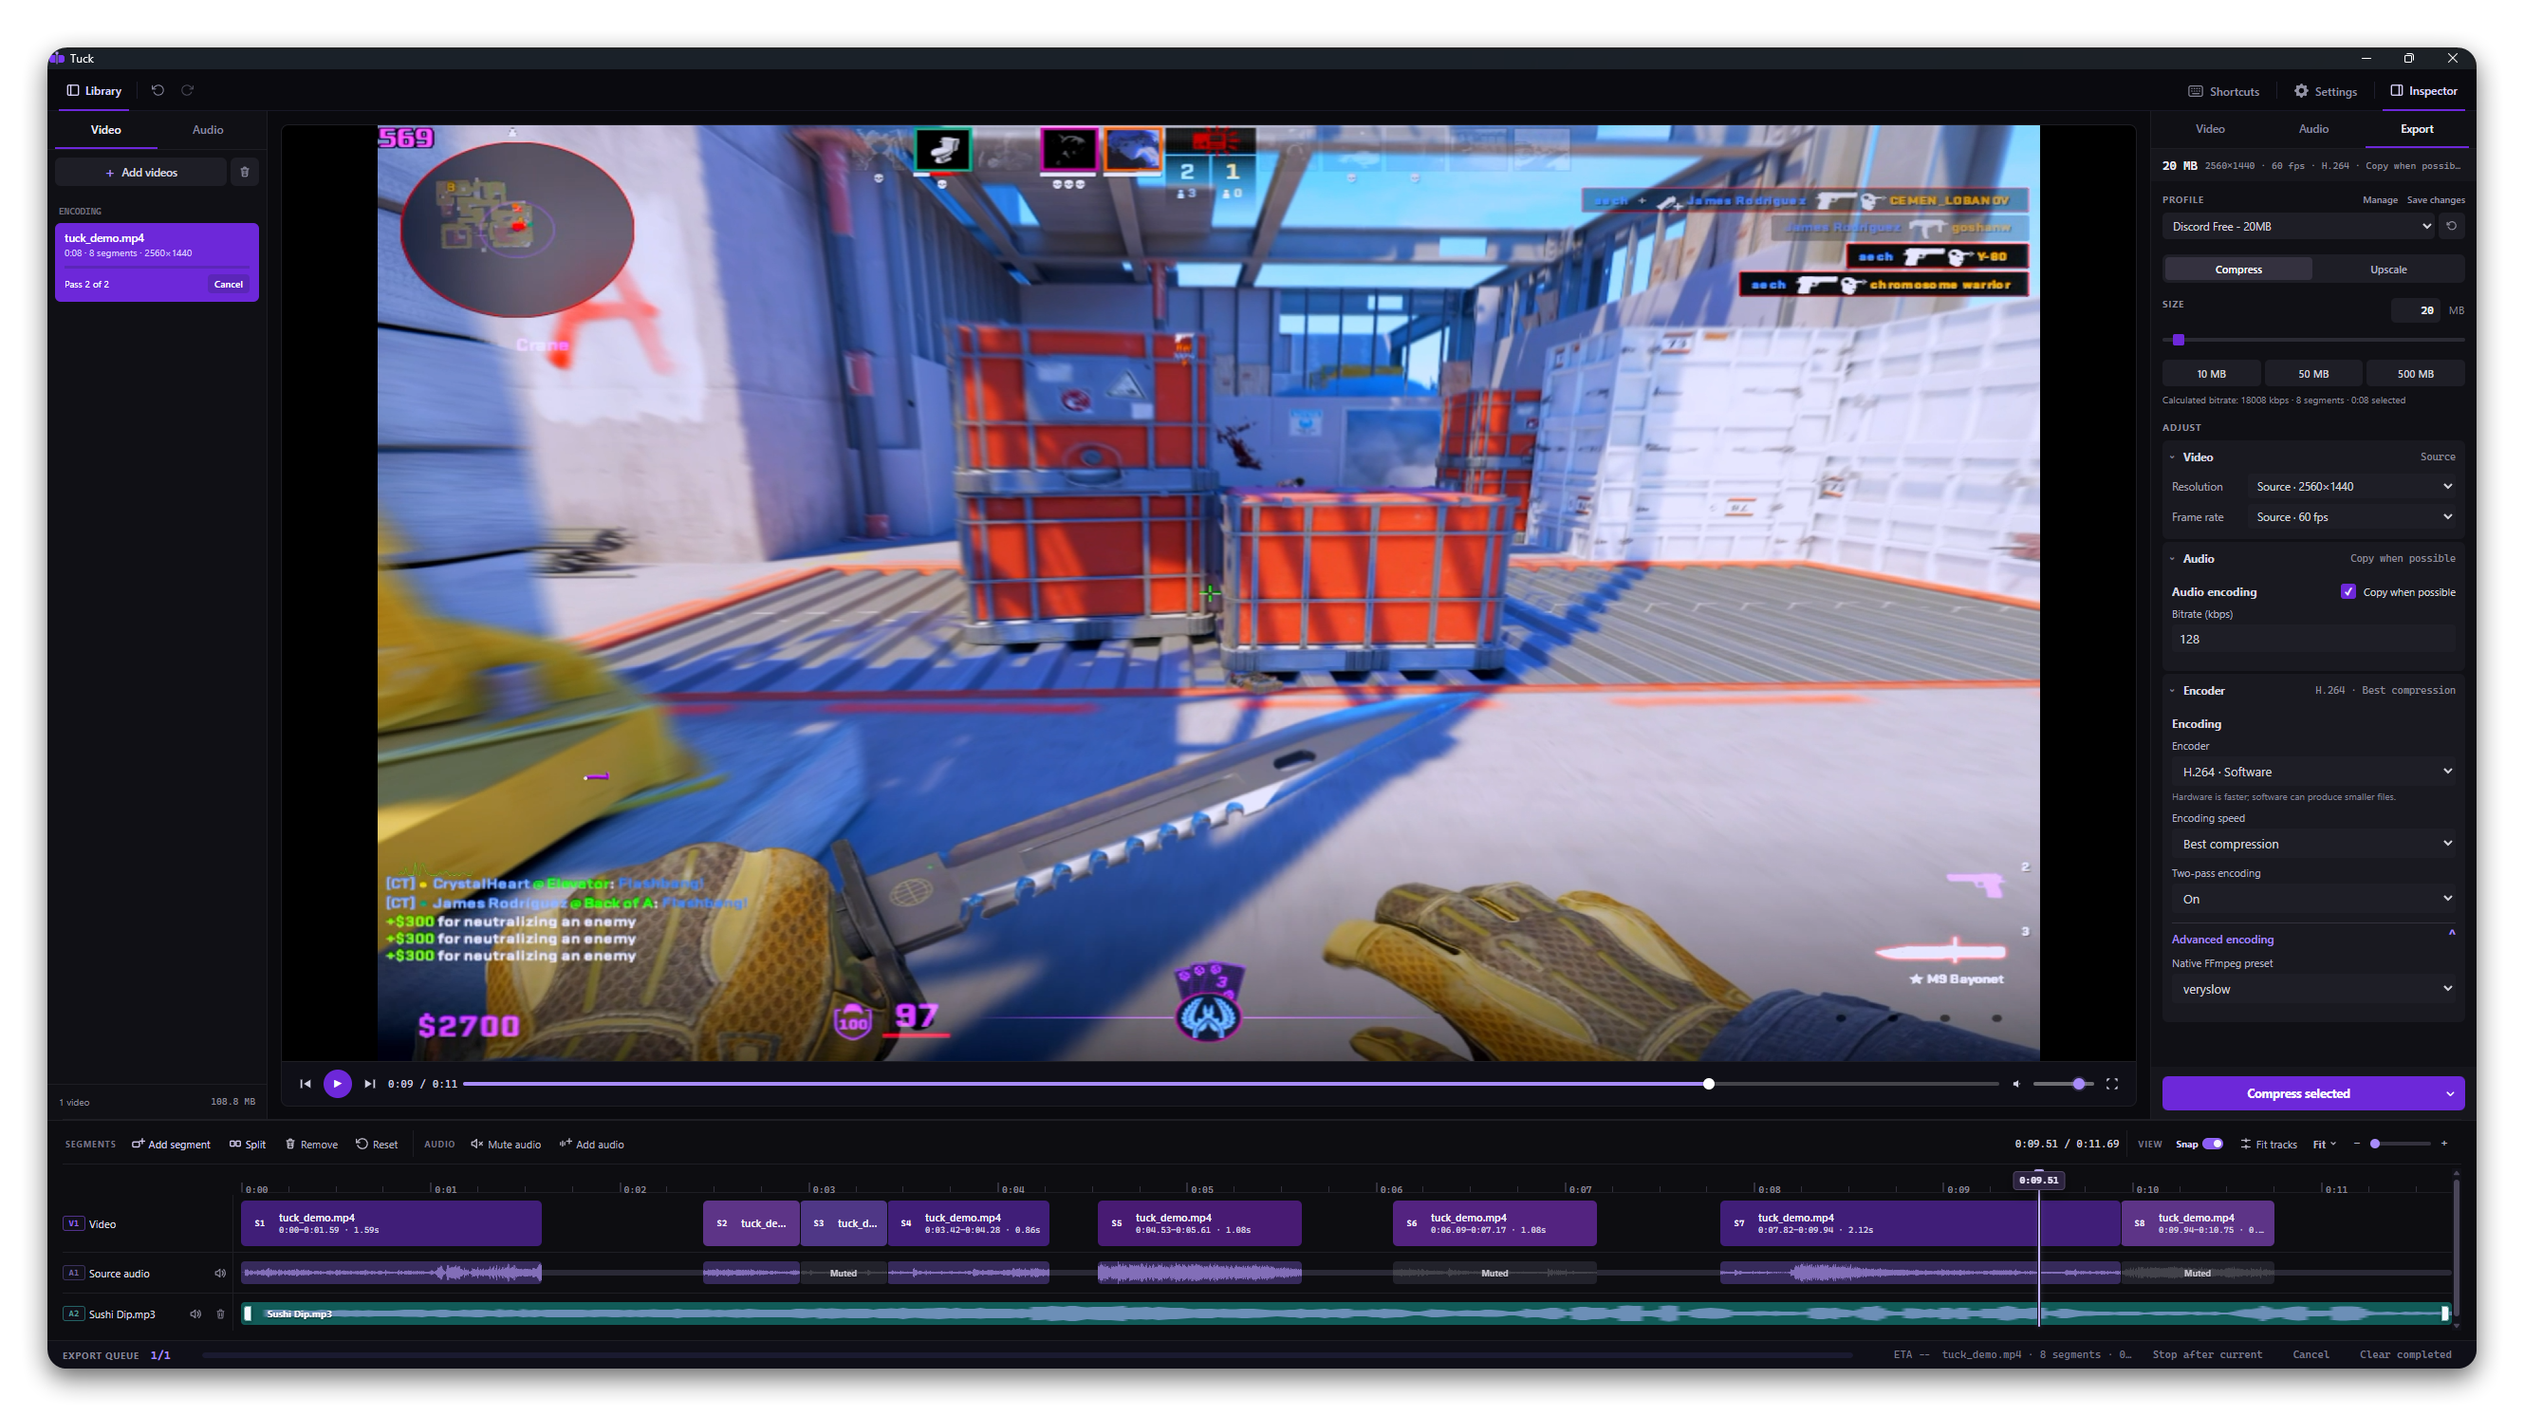
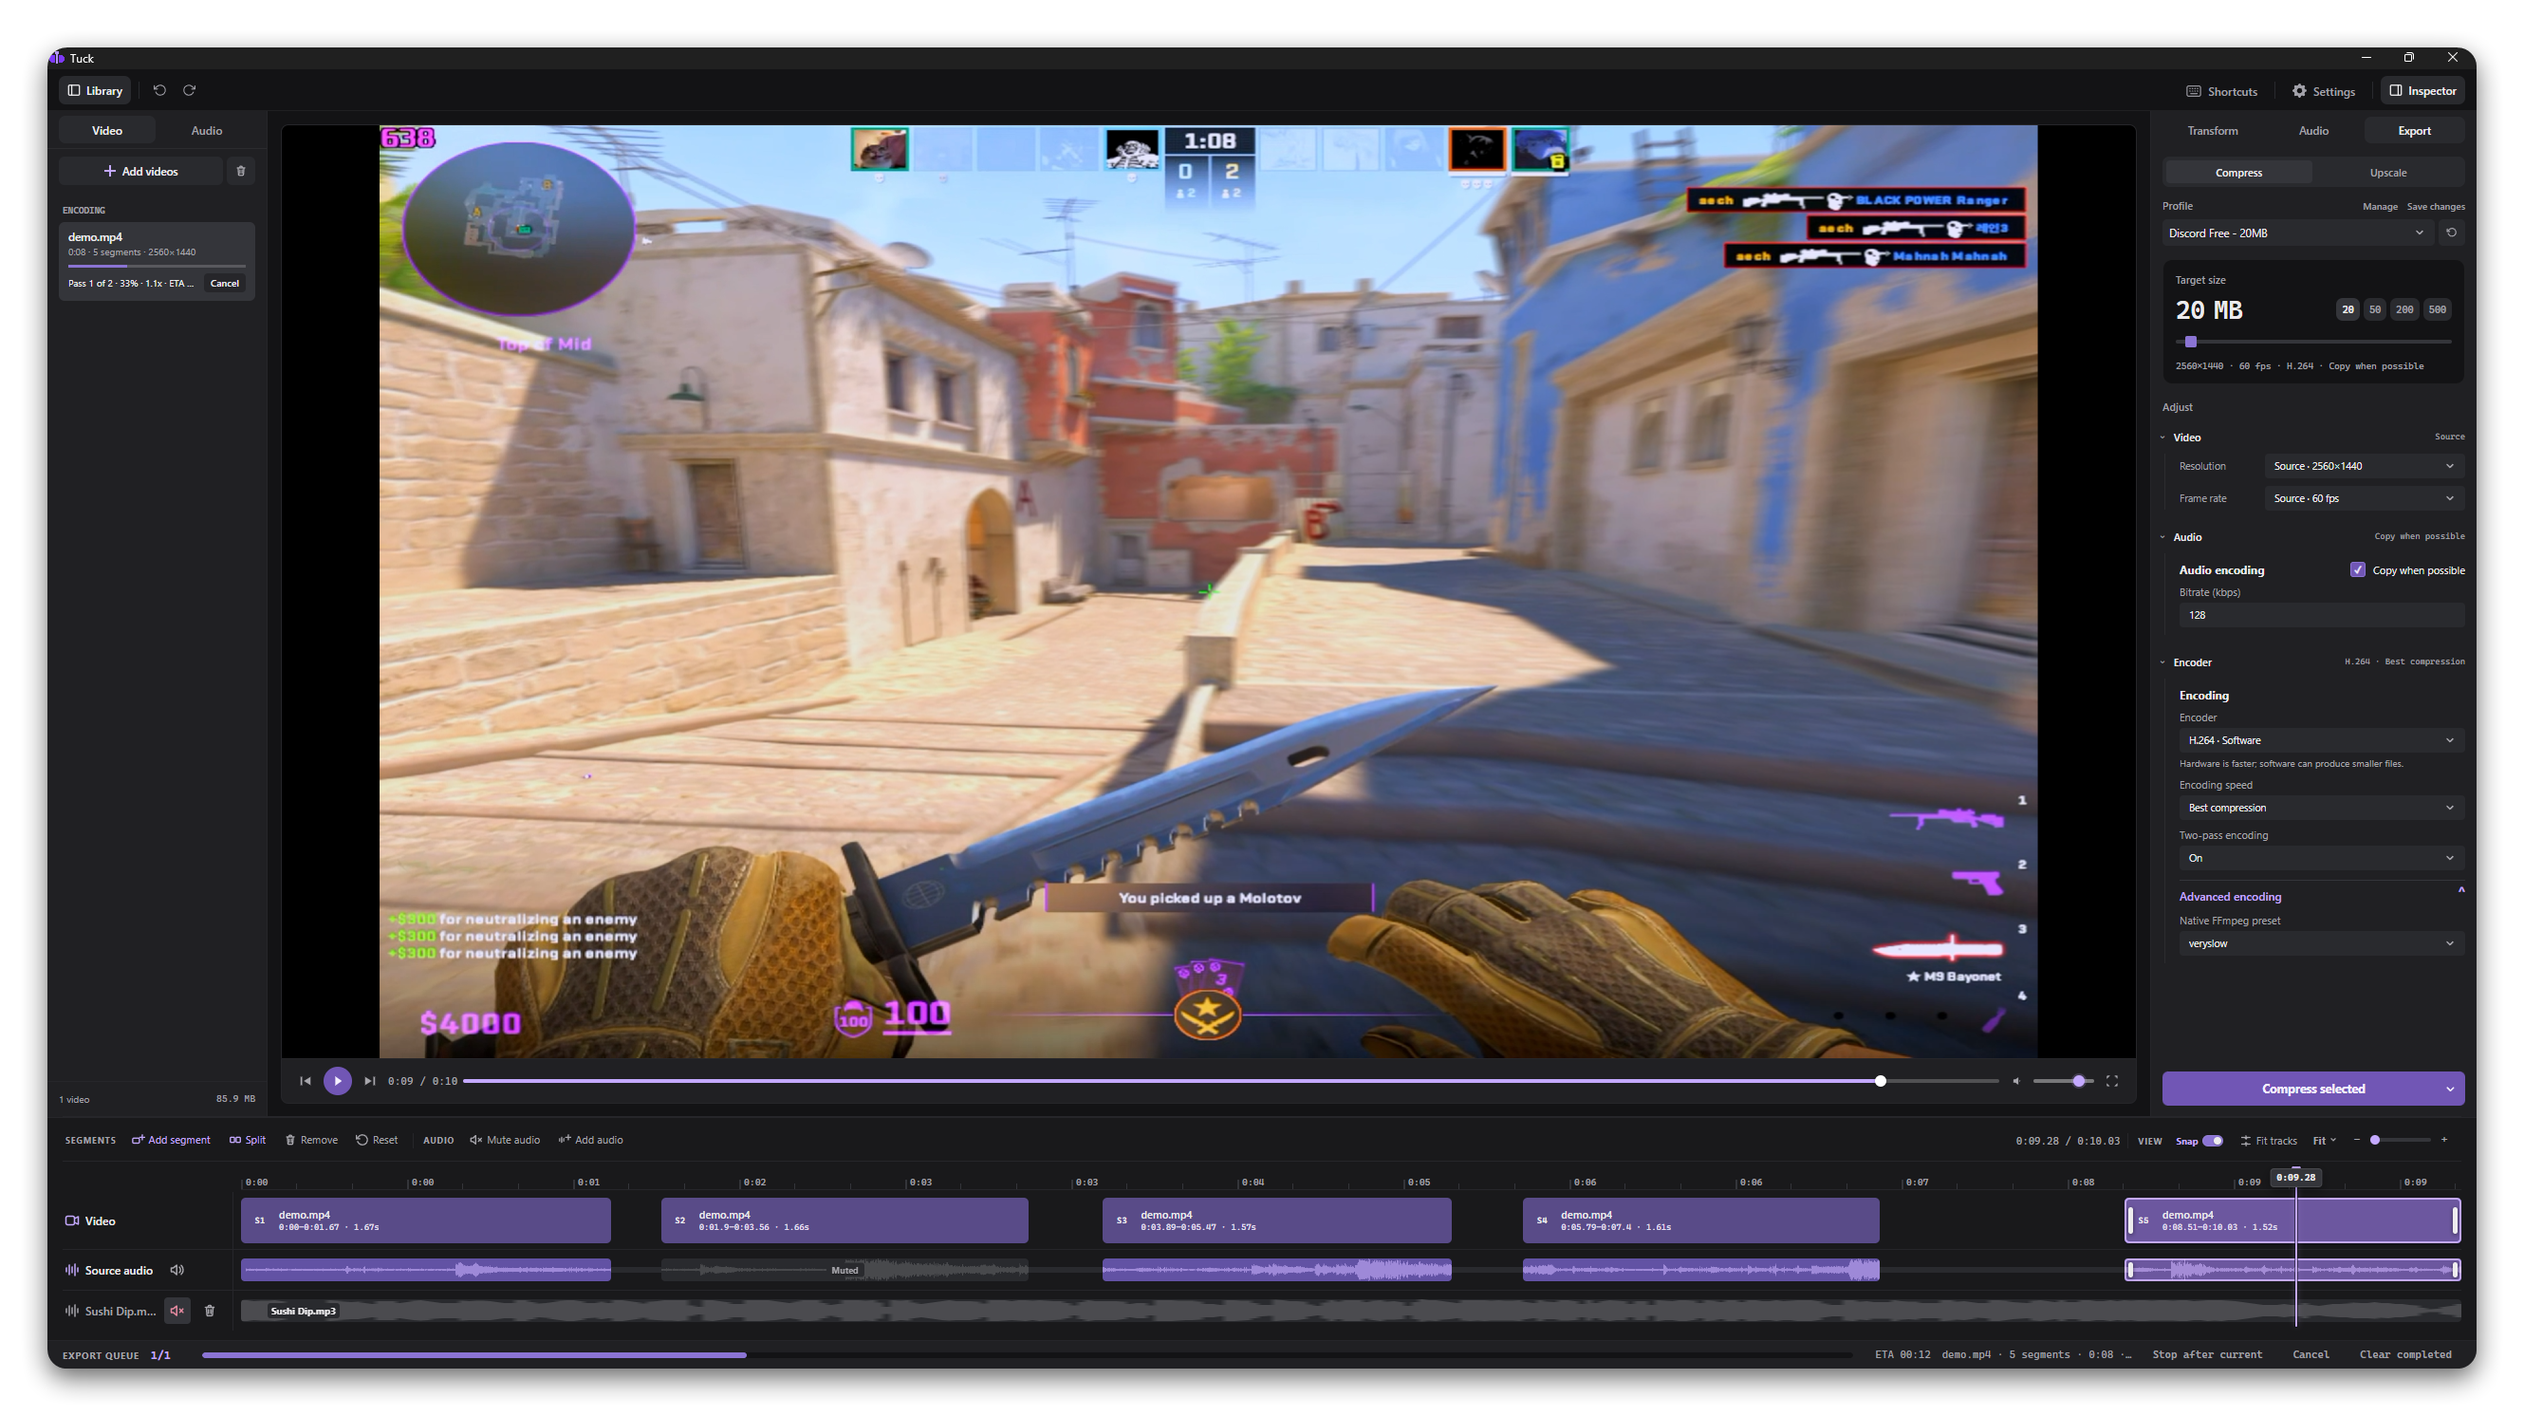
Release 0.5.0

diff --git a/src-tauri/tests/backend_process.rs b/src-tauri/tests/backend_process.rs
@@ -94,7 +94,7 @@ async fn pending_requests_route_out_of_order_responses_once() {
 #[tokio::test]
 async fn process_reports_malformed_output_and_does_not_leave_a_pending_request() {
     let process = BackendProcess::launch(fake_sidecar(
-        "import json, sys\nprint(json.dumps({'kind':'event','protocol':1,'event':'backend_ready','payload':{'backend_version':'0.4.0','pid':1,'capabilities':{'protocol':1}}}), flush=True)\nprint('{not json}', flush=True)\nfor _ in sys.stdin: pass",
+        "import json, sys\nprint(json.dumps({'kind':'event','protocol':1,'event':'backend_ready','payload':{'backend_version':'0.5.0','pid':1,'capabilities':{'protocol':1}}}), flush=True)\nprint('{not json}', flush=True)\nfor _ in sys.stdin: pass",
     ))
     .await
     .expect("sidecar should report readiness before malformed output");
@@ -115,7 +115,7 @@ async fn process_reports_malformed_output_and_does_not_leave_a_pending_request()
 #[tokio::test]
 async fn process_returns_stderr_diagnostics_after_early_exit() {
     let process = BackendProcess::launch(fake_sidecar(
-        "import json, sys\nprint(json.dumps({'kind':'event','protocol':1,'event':'backend_ready','payload':{'backend_version':'0.4.0','pid':1,'capabilities':{'protocol':1}}}), flush=True)\nprint('sidecar startup diagnostic', file=sys.stderr, flush=True)",
+        "import json, sys\nprint(json.dumps({'kind':'event','protocol':1,'event':'backend_ready','payload':{'backend_version':'0.5.0','pid':1,'capabilities':{'protocol':1}}}), flush=True)\nprint('sidecar startup diagnostic', file=sys.stderr, flush=True)",
     ))
     .await
     .expect("sidecar should report readiness before it exits");
@@ -140,7 +140,7 @@ async fn process_returns_stderr_diagnostics_after_early_exit() {
 #[tokio::test]
 async fn request_timeout_removes_the_pending_entry() {
     let process = BackendProcess::launch(fake_sidecar(
-        "import json, sys\nprint(json.dumps({'kind':'event','protocol':1,'event':'backend_ready','payload':{'backend_version':'0.4.0','pid':1,'capabilities':{'protocol':1}}}), flush=True)\nfor _ in sys.stdin: pass",
+        "import json, sys\nprint(json.dumps({'kind':'event','protocol':1,'event':'backend_ready','payload':{'backend_version':'0.5.0','pid':1,'capabilities':{'protocol':1}}}), flush=True)\nfor _ in sys.stdin: pass",
     ))
     .await
     .expect("sidecar should start");
@@ -181,7 +181,7 @@ async fn real_sidecar_completes_health_and_graceful_shutdown() {
 #[tokio::test]
 async fn sidecar_receives_the_authoritative_desktop_platform() {
     let process = BackendProcess::launch(fake_sidecar(
-        "import json, os, sys\nprint(json.dumps({'kind':'event','protocol':1,'event':'backend_ready','payload':{'backend_version':'0.4.0'}}), flush=True)\nfor line in sys.stdin:\n request = json.loads(line)\n print(json.dumps({'kind':'response','protocol':1,'id':request['id'],'ok':True,'result':{'platform': os.environ['TUCK_DESKTOP_PLATFORM']}}), flush=True)",
+        "import json, os, sys\nprint(json.dumps({'kind':'event','protocol':1,'event':'backend_ready','payload':{'backend_version':'0.5.0'}}), flush=True)\nfor line in sys.stdin:\n request = json.loads(line)\n print(json.dumps({'kind':'response','protocol':1,'id':request['id'],'ok':True,'result':{'platform': os.environ['TUCK_DESKTOP_PLATFORM']}}), flush=True)",
     ))
     .await
     .expect("sidecar should start");

diff --git a/scripts/verify_package.py b/scripts/verify_package.py
@@ -51,7 +51,7 @@ STAGING_APP = ROOT / "packaging" / "staging" / "app"
 MANIFEST = ROOT / "packaging" / "staging" / "manifest.json"
 LOCK = ROOT / "packaging" / "ffmpeg-sources.lock.json"
 WEBVIEW2_LOCK = ROOT / "packaging" / "webview2-bootstrapper.lock.json"
-EXPECTED_VERSION = "0.4.0"
+EXPECTED_VERSION = "0.5.0"
 
 
 class VerifyError(RuntimeError):

diff --git a/tuck/__init__.py b/tuck/__init__.py
@@ -1,1 +1,1 @@
-__version__ = "0.4.0"
+__version__ = "0.5.0"

diff --git a/README.md b/README.md
@@ -21,43 +21,33 @@
 
 ---
 
-> [!NOTE]
-> **Microsoft Defender false positive resolved**
->
-> Microsoft reviewed Tuck 0.3.2 and the 0.3.3 release candidate and removed the false-positive cloud detection. Both files are classified as not malware.
->
-> If Defender still reports an older detection, open Windows Security, go to **Virus & threat protection > Protection updates**, and select **Check for updates**.
-
-Tuck is a desktop video editor, compressor, and upscaler built around FFmpeg.
-Trim clips, edit audio, crop or resize videos, and export to a chosen file size
-or resolution.
+Tuck is a simple video editor for Windows and Linux, built around FFmpeg.
+Trim clips, edit audio, crop or resize videos, and export to a file size or
+resolution you choose.
 
 <img src="docs/screenshots/Tuck_GUI.png" alt="Tuck editor">
 
 ## Download
 
-Tuck supports Windows 10 and 11 and x86-64 Linux through an AppImage. The AppImage bundles its Python backend and FFmpeg tools. It is GUI-only: Send To integration, a public command line, and hardware encoding are Windows-only. Both platforms install signed updates from inside the app.
+Tuck supports Windows 10 and 11 and x86-64 Linux. Both packages include FFmpeg and
+ffprobe and support signed updates from inside the app.
 
-1. Download the latest installer from the [Releases page](https://github.com/aechXIII/Tuck/releases/latest), then run it.
+Linux uses software encoding. Hardware encoding, File Explorer's **Send To** menu,
+and the command-line tools are available on Windows only.
 
-2. Install FFmpeg and FFprobe:
+### Windows
 
-   ```powershell
-   winget install --exact --id Gyan.FFmpeg
-   ```
+Download the Windows installer from the [Releases page](https://github.com/aechXIII/Tuck/releases/latest), run it, and open Tuck. FFmpeg and ffprobe are included; no separate installation is needed. Setup installs the WebView2 Runtime if it is missing, which requires an internet connection.
 
-3. Restart Tuck.
-
-If `winget` is unavailable, install a Windows build from the [FFmpeg download page](https://ffmpeg.org/download.html). Make `ffmpeg.exe` and `ffprobe.exe` available in `PATH` or select them under
-**Settings > System & support > Advanced system settings**.
+To use your own FFmpeg tools, select them in **Settings > System & support**.
 
 ### Linux AppImage
 
-Install for the current user (no root) with the one-liner, which also adds a
-desktop entry and can be re-run to update:
+Install Tuck and add it to the application menu with this command. It requires
+`curl`, `python3`, and `sha256sum`. No `sudo` needed. Run it again to update:
 
 ```bash
-curl -fsSL https://raw.githubusercontent.com/aechXIii/Tuck/main/scripts/install-linux.sh | sh
+curl -fsSL https://raw.githubusercontent.com/aechXIII/Tuck/main/scripts/install-linux.sh | sh
 ```
 
 Or run the x86-64 AppImage directly after making it executable:
@@ -70,23 +60,17 @@ chmod +x Tuck-*-x86_64.AppImage
 When the AppImage file is writable the app updates in place. When it is not, it
 shows the release notes with a download link.
 
-The AppImage needs a desktop session with WebKitGTK 4.1. It bundles its own Python
-sidecar, FFmpeg/ffprobe, and the GStreamer plugins used for editor preview
-playback.
+The AppImage needs a Linux desktop session. It includes WebKitGTK, Python,
+FFmpeg/ffprobe, and the plugins used for video previews.
 
-- On distributions without `libfuse2` (Ubuntu 24.04 and newer, recent Fedora), run
-  it with `./Tuck_*.AppImage --appimage-extract-and-run` or install `libfuse2`.
-- Tuck forces WebKitGTK's portable renderer so it starts inside virtual machines
-  and on software OpenGL. Launch with `TUCK_WEBKIT_ACCELERATED=1 ./Tuck_*.AppImage`
-  for the full accelerated renderer, or `TUCK_WEBKIT_COMPOSITING=1 ./Tuck_*.AppImage`
-  to keep accelerated compositing (needed for `<video>` on some drivers) while
-  still avoiding the virtual-machine renderer crash.
-
-Build the AppImage natively on Ubuntu 22.04 with a desktop session available for the
-smoke test. It uses the bundled Python sidecar and FFmpeg/ffprobe, not system Python
-or FFmpeg. The build compiles FFmpeg from locked FFmpeg, x264, and x265 sources. The
-AppImage includes those exact source archives and the build recipe under
-`ffmpeg/source`.
+- If the AppImage reports that FUSE is missing, run
+  it with `./Tuck-*-x86_64.AppImage --appimage-extract-and-run` (or
+  `tuck --appimage-extract-and-run` after using the installer script).
+- If video previews stay blank, try launching with
+  `TUCK_WEBKIT_COMPOSITING=1 ./Tuck-*-x86_64.AppImage`.
+- Hardware-accelerated display is off by default for compatibility with virtual
+  machines. To enable it, launch with
+  `TUCK_WEBKIT_ACCELERATED=1 ./Tuck-*-x86_64.AppImage`.
 
 ## Features
 
@@ -95,8 +79,8 @@ AppImage includes those exact source archives and the build recipe under
 - **Crop and resize:** Crop directly in the preview, rotate in 90-degree steps, flip the
   picture horizontally or vertically, and choose **Fit**, **Fill**, or **Stretch** for the
   output frame.
-- **Compression and upscaling:** Compress to a chosen file-size limit, or upscale to 1440p, 4K, or a custom resolution. Built-in profiles cover [Discord's](https://support.discord.com/hc/en-us/articles/25444343291031-File-Attachments-FAQ) 20 MB, 50 MB, and 500 MB upload limits.
-- **Encoding queue:** Encode with FFmpeg using software or supported NVIDIA and AMD hardware. Queue multiple videos, reorder pending exports, cancel a pending or running export, and retry failed or cancelled exports.
+- **Compression and upscaling:** Compress to a chosen file-size limit, or upscale to 1440p, 4K, or a custom resolution. Choose a target-size preset of 20, 50, 200, or 500 MB, or enter your own limit.
+- **Encoding queue:** Queue multiple videos, reorder pending exports, cancel a pending or running export, and retry failed or cancelled exports. Use software encoding on either platform or supported NVIDIA and AMD hardware on Windows.
 - **Profiles and Windows integration:** Save reusable profiles, import or export profiles, drag videos into Tuck, and add Tuck or a specific profile to File Explorer's **Send To** menu.
 
 ## Use
@@ -105,7 +89,7 @@ AppImage includes those exact source archives and the build recipe under
 2. Make any timeline, audio, crop, or sizing changes.
 3. Choose **Compress** or **Upscale**, select a profile, and start the export.
 
-## Command line
+## Command line (Windows)
 
 The installer adds `tuck` to `PATH`. Open a new terminal after installing Tuck.
 
@@ -127,7 +111,13 @@ include the report in a [GitHub issue](https://github.com/aechXIII/Tuck/issues).
 
 ## Build from source
 
-Running Tuck from source needs Windows or Linux, Python 3.10 or newer, Node.js, Rust, and FFmpeg:
+Development needs Python 3.10 or newer, Node.js 20.19+ on the 20.x line or 22.12
+and newer, Rust, and FFmpeg/ffprobe. Windows also needs the MSVC build tools and
+WebView2; Linux needs the Tauri/WebKitGTK 4.1 development dependencies.
+
+### Windows
+
+Set up Python, install frontend dependencies, and start the editor:
 
 ```powershell
 .\scripts\setup.ps1
@@ -139,14 +129,32 @@ First [build the Windows media tools](packaging/windows-ffmpeg.md) from pinned
 sources using Ubuntu 22.04 or WSL. Then build the Windows installer:
 
 ```powershell
-.\scripts\build.ps1 -Clean
+.\scripts\build.ps1
 ```
 
-Build the x86-64 Linux AppImage natively on Ubuntu 22.04 with Python, Node.js, Rust, Tauri's Linux build dependencies, CMake, NASM, pkg-config, and a C/C++ compiler installed:
+### Linux
+
+Set up Python and frontend dependencies, then start the editor:
 
 ```bash
-./scripts/build-linux.sh --clean
+python3 -m venv .venv
+.venv/bin/python -m pip install -e '.[dev]'
+npm ci
+npm run tauri dev
 ```
+
+Build the x86-64 AppImage on Ubuntu 22.04. In addition to the development
+dependencies, install CMake, NASM, pkg-config, a C/C++ compiler, Xvfb, squashfs-tools,
+and the GStreamer tools and base/good/bad/libav plugins. The build script checks
+for required tools and runs the packaged smoke test.
+
+```bash
+./scripts/build-linux.sh
+```
+
+The Linux build compiles FFmpeg, x264, and x265 from pinned sources and includes
+the source archives and build recipe in the AppImage under `ffmpeg/source`.
+Windows releases provide a separate FFmpeg source archive alongside the installer.
 
 ## License
 

diff --git a/CHANGELOG.md b/CHANGELOG.md
@@ -1,5 +1,27 @@
 # Changelog
 
+## [0.5.0] - 2026-09-14
+
+### Added
+
+- Linux support (AppImage)
+- Linux installer script
+
+### Changed
+
+- Updated editor layout
+- Bundled FFmpeg and ffprobe on Windows
+- Signed in-app updates on Windows and Linux
+- Estimated output sizes in Library
+- Updated quick size presets: 20, 50, 200, and 500 MB
+- Show exported files in their folder
+
+### Fixed
+
+- Repeated encoding when the output was already below the size limit
+- Editor freezing when changing export settings after an encode
+- Audio waveforms disappearing after edits or undo
+
 ## [0.4.0] - 2026-08-27
 
 ### Added
